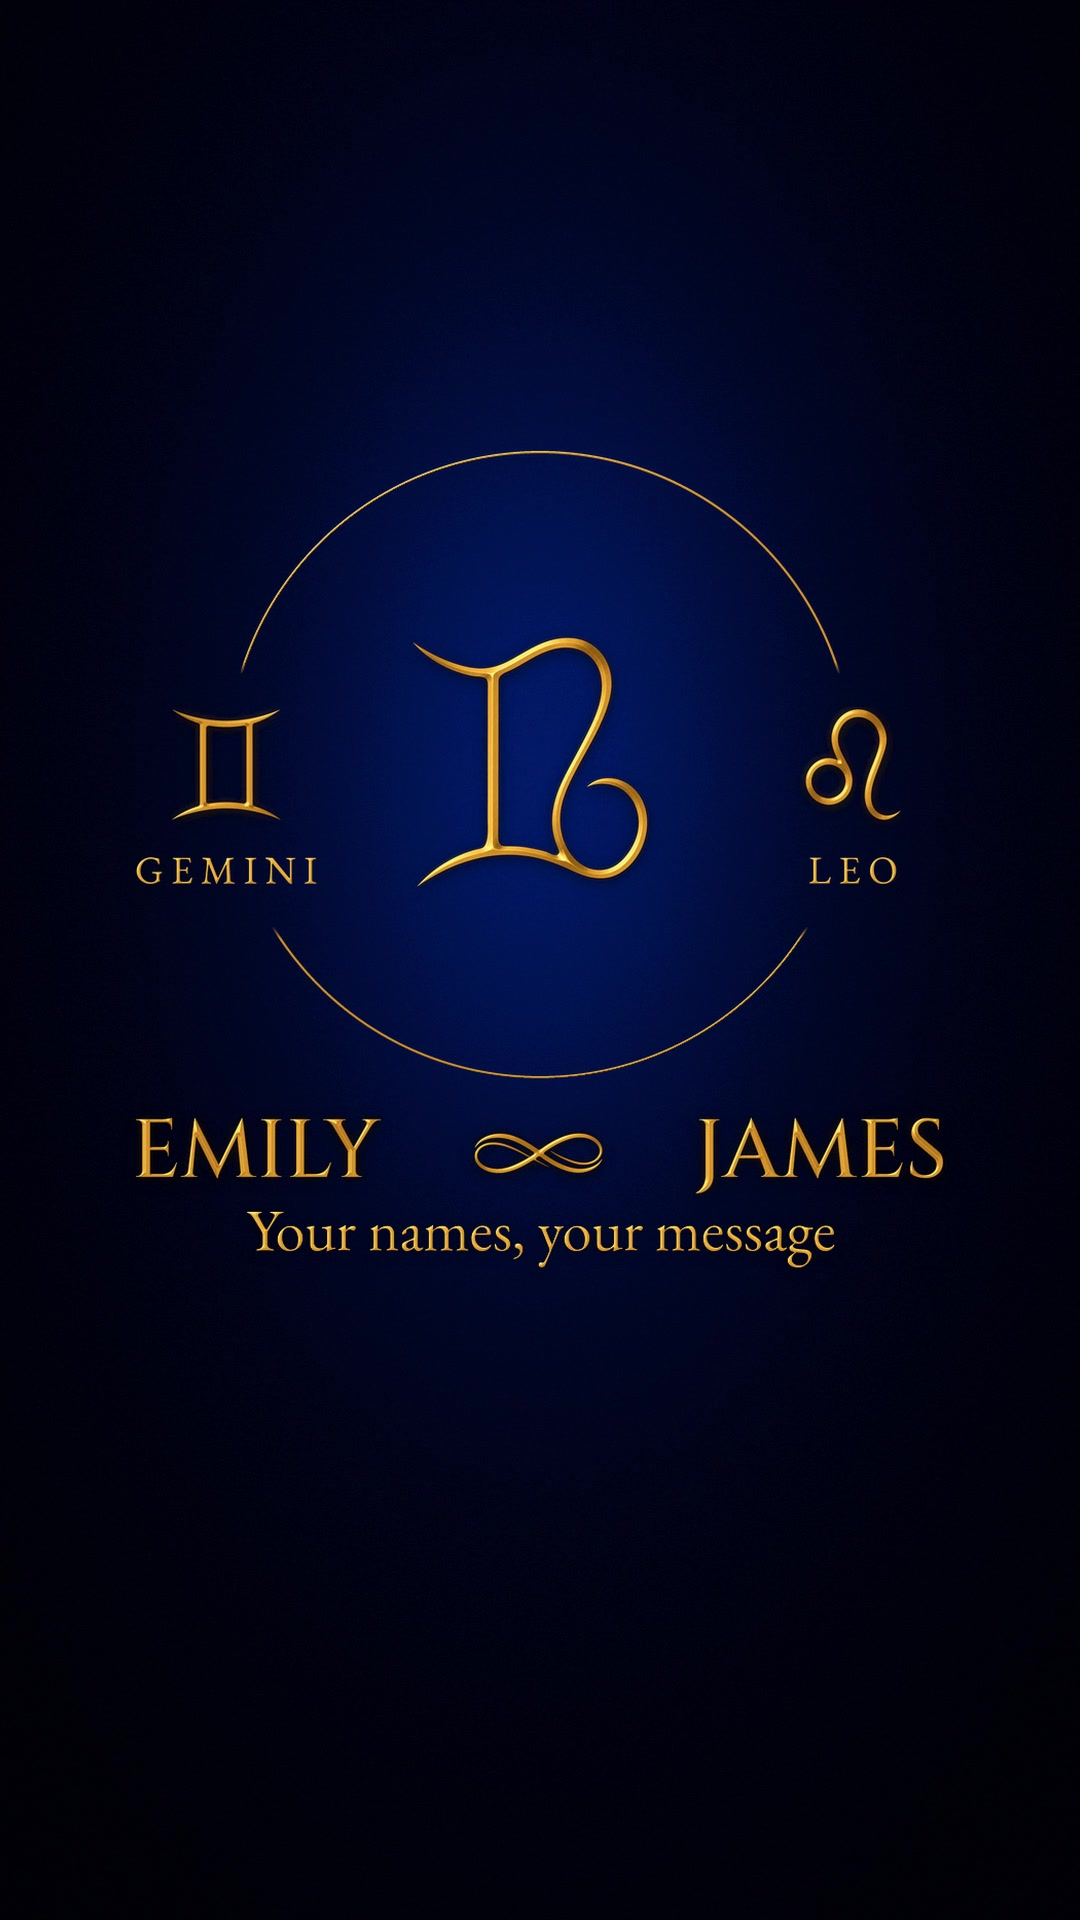
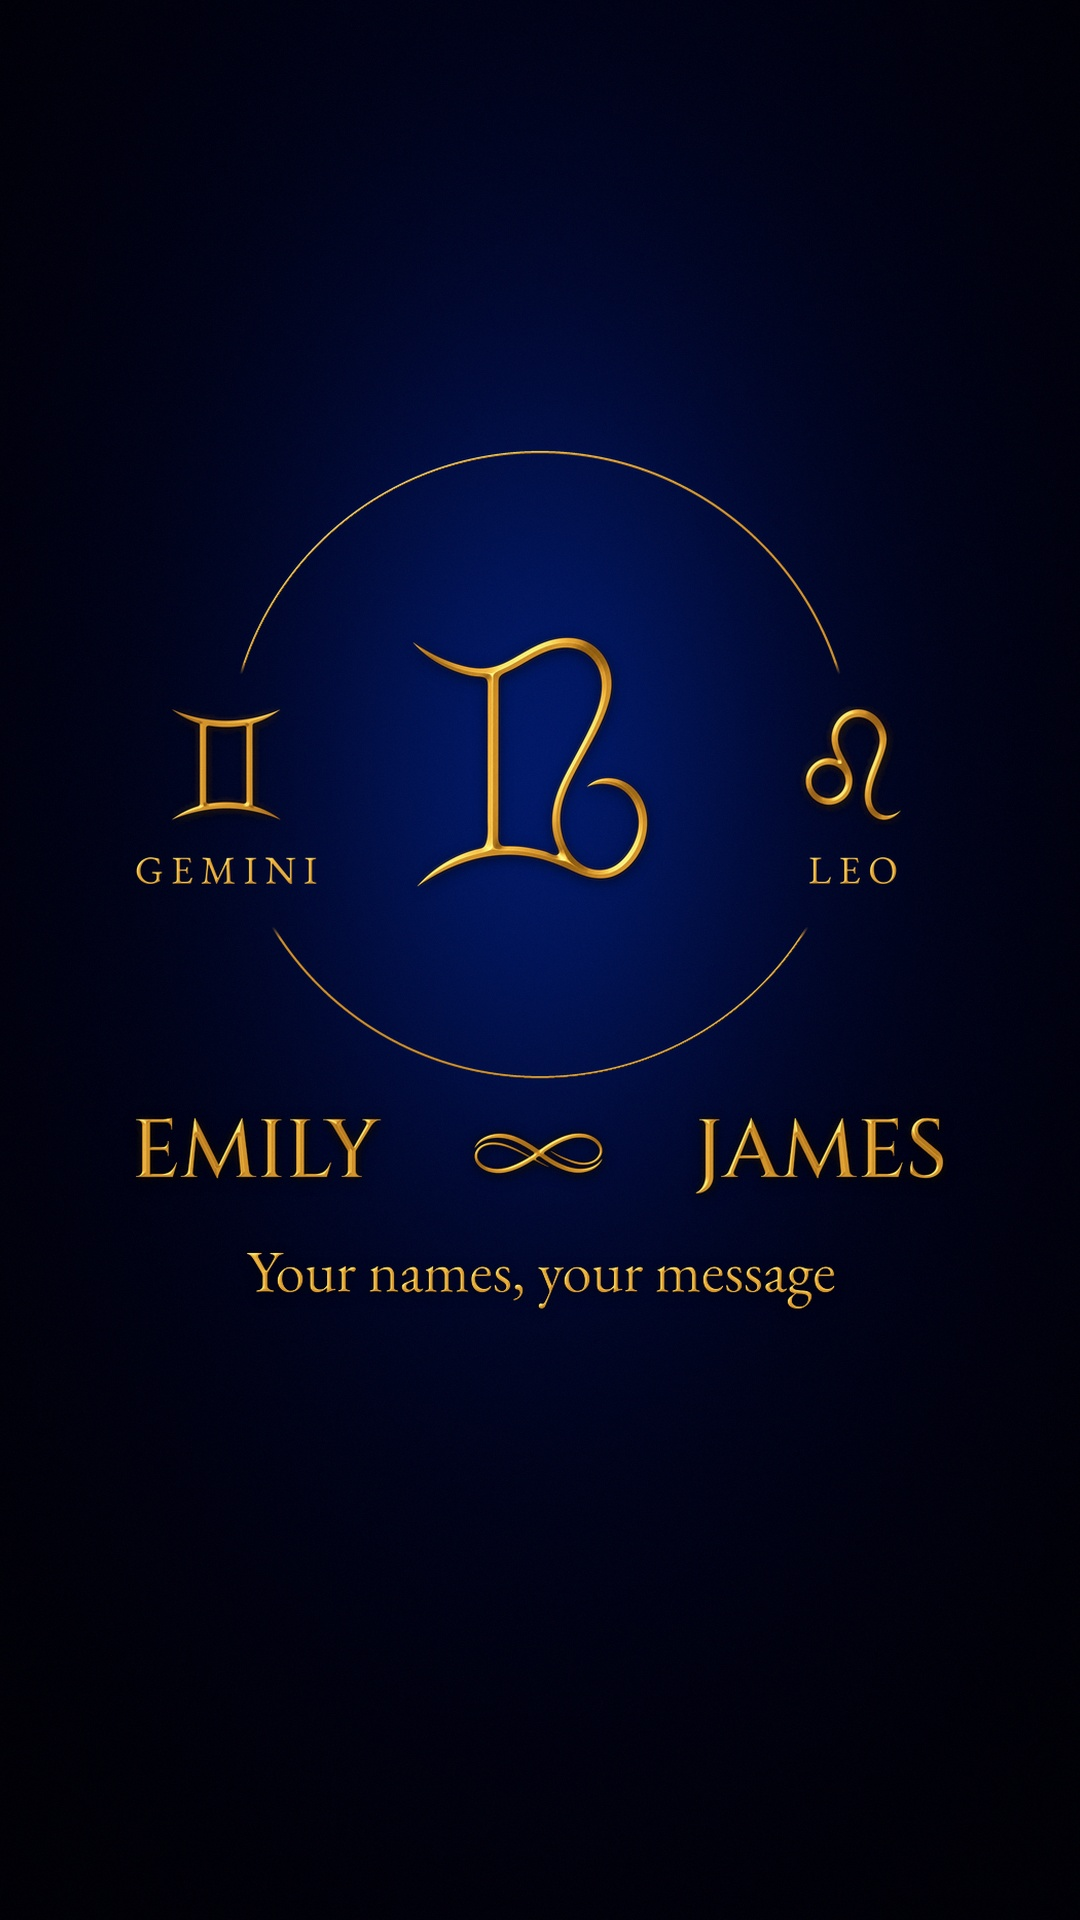
sosyal/video_v9: 'Your names, your message' 40 px asagida (Serdar); onayli kare_13s yenilendi
Claude-Session: https://claude.ai/code/session_018RBnEA32QZ2E2PWYsKu1q9

Changed region(s): [[0.2139, 0.625, 0.7639, 0.6875]]

diff --git a/sosyal/video_v9/video_uret.py b/sosyal/video_v9/video_uret.py
@@ -105,7 +105,7 @@ def build(poster_path, A, B, out_dir, muzik=None, kareler=None, bilgi=None):
     mx, my = centred(MER); LM = full(MER, mx, my)
     tA = merge_layers([full(text('Two signs', 0.070), W / 2, 318), full(text('Your shared symbol', 0.070), W / 2, 404)])
     names = lib.scale_w(P.layer(P.names_row, only_label=False), round(W * 0.74))
-    tB = merge_layers([full(names, W / 2, 1150), full(text('Your names, your message', 0.054), W / 2, 1232)])
+    tB = merge_layers([full(names, W / 2, 1150), full(text('Your names, your message', 0.054), W / 2, 1272)])
     end = bg.copy()
     _e1, _e2, _e3 = text('Make it yours', 0.090), brand(0.046), text('On Etsy', 0.052)
     lib.paste(end, _e1, W / 2, CY - 130); lib.paste(end, _e2, W / 2, CY + 10, shadow=False); lib.paste(end, _e3, W / 2, CY + 135)
